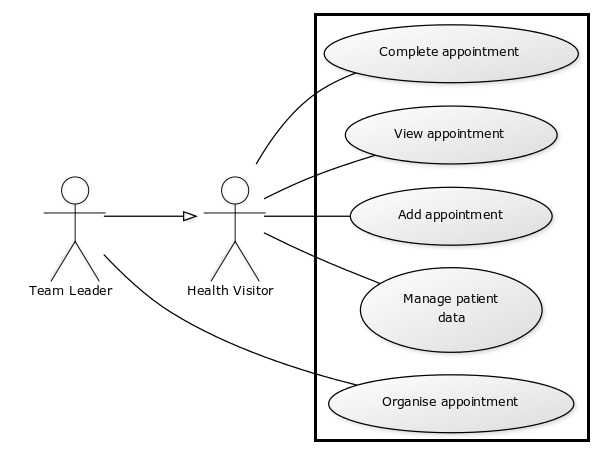
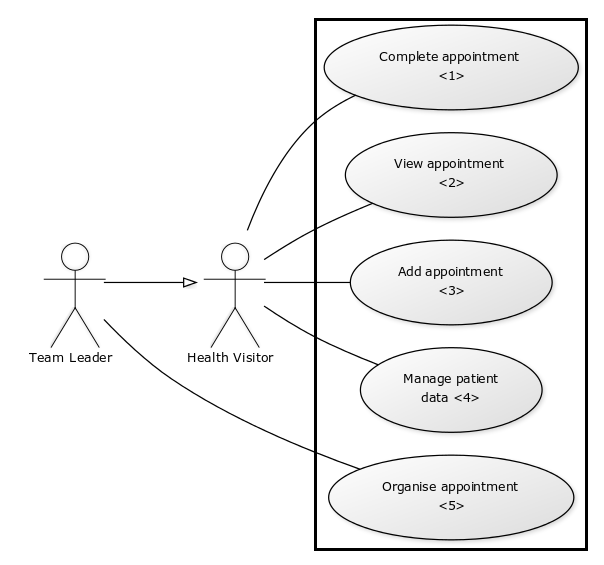
Update Usecase

diff --git a/docs/cs1/task04/usecases.md b/docs/cs1/task04/usecases.md
@@ -1,3 +1,4 @@
 ## Usecase
-Das Bild kann mit https://yuml.me/diagram/nofunky/usecase/[Team%20Leader]%5E[Health%20Visitor],[Team%20Leader]-(Organise%20appointment),[Health%20Visitor]-(View%20appointment),[Health%20Visitor]-(Add%20appointment),[Health%20Visitor]-(Manage%20patient%20data),[Health%20Visitor]-(Complete%20appointment)
+Das Bild kann mit
+https://yuml.me/diagram/nofunky/usecase/[Team%20Leader]%5E[Health%20Visitor],[Team%20Leader]-(Organise%20appointment%20%3C5%3E),[Health%20Visitor]-(View%20appointment%20%3C2%3E),[Health%20Visitor]-(Add%20appointment%20%3C3%3E),[Health%20visitor]-(Manage%20patient%20data%20%3C4%3E),[Health%20Visitor]-(Complete%20appointment%20%3C1%3E)
 angeschaut werden.
